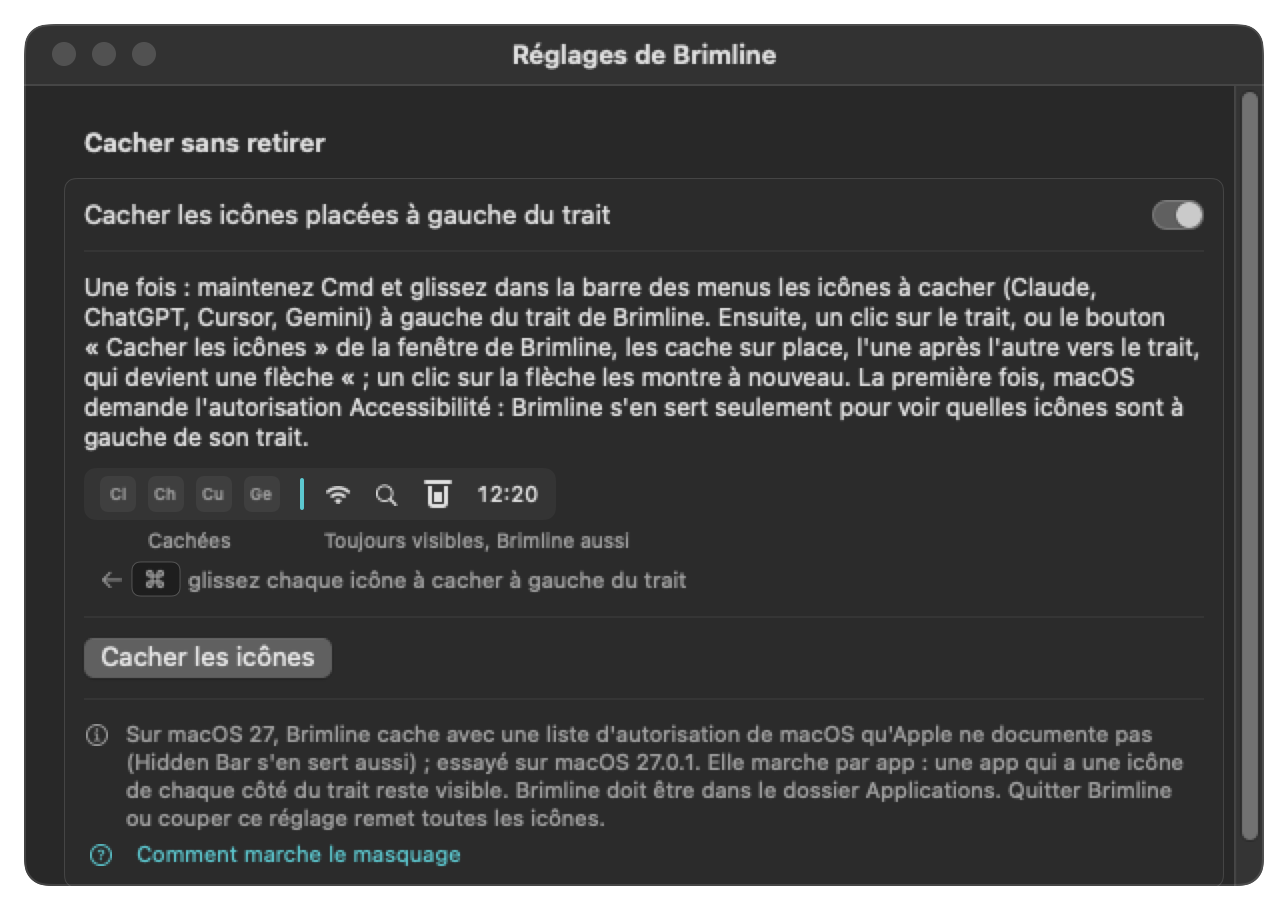
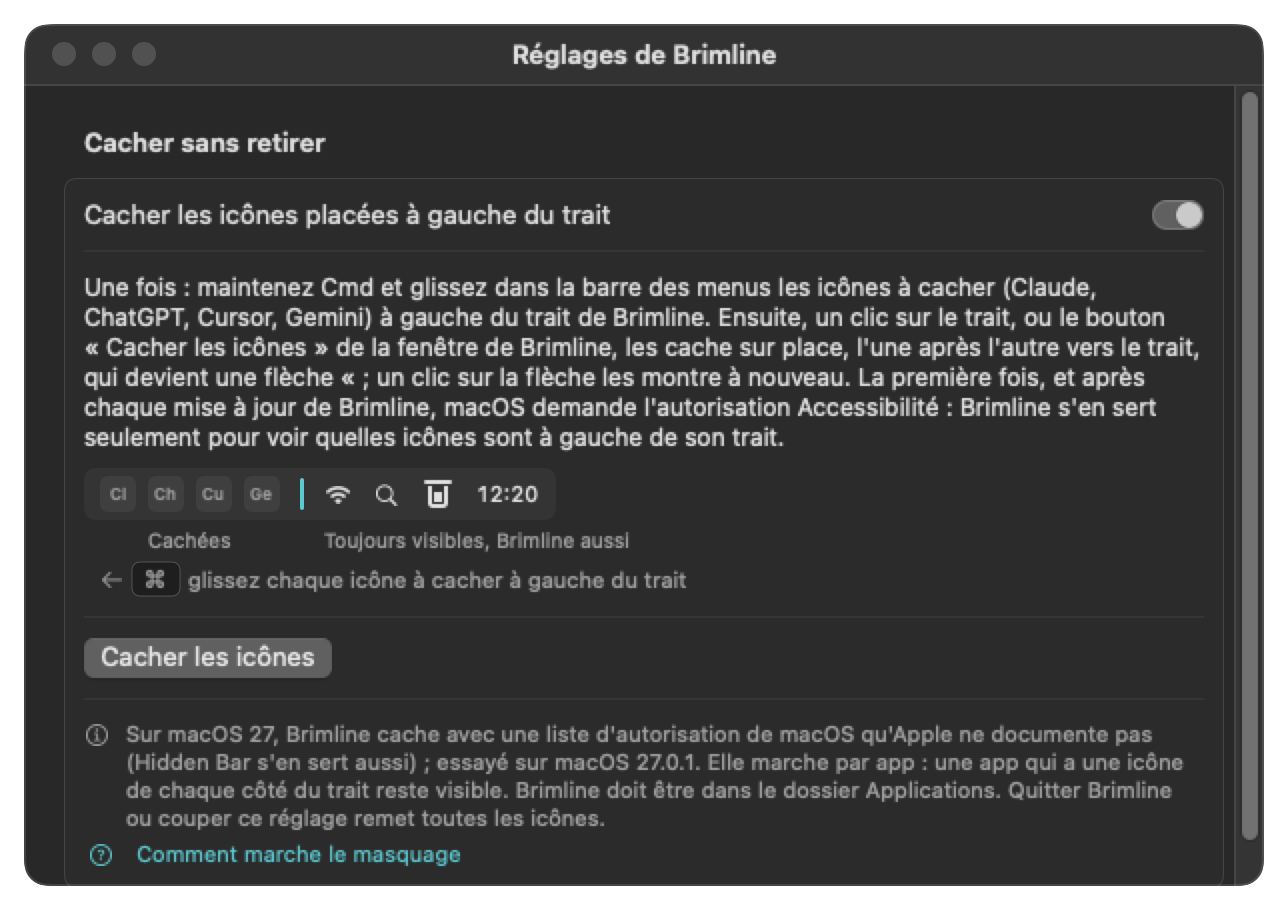
Brimline: ask for Accessibility again after an update, and say the grant covers one build (THA-1551)
The grant macOS keeps for Brimline names the cdhash of the build that was
approved (an ad hoc signature): the build of main after #41 was not
covered, and the bar hid every other app at once with the remembered list,
without asking. Brimline now opens macOS's window (once per launch)
whenever it is not trusted, list or not, and the texts say that macOS asks
again after each update.

Docs: the claim that a new build kept the permission is withdrawn (that
install had copied the same build), J10 says what was really installed and
that the fixes of #41 are still to be tried by real clicks.

Changed region(s): [[0.0621, 0.4, 0.9317, 0.4923]]

diff --git a/Sources/BrimlineCore/Formatting.swift b/Sources/BrimlineCore/Formatting.swift
@@ -555,8 +555,8 @@ public struct Strings: Sendable {
     }
     /// The same on macOS 27, where Brimline hides with macOS's allow-list.
     public var menuBarHidingHowToAllowList: String {
-        t("Once: hold Command and drag the icons to hide (Claude, ChatGPT, Cursor, Gemini) to the left of Brimline's bar in the menu bar. Then a click on the bar, or the “Hide the icons” button of the Brimline window, hides them in place, one after the other toward the bar, which becomes an arrow «; a click on the arrow shows them again. The first time, macOS asks for the Accessibility permission: Brimline uses it only to see which icons are left of its bar.",
-          "Une fois : maintenez Cmd et glissez dans la barre des menus les icônes à cacher (Claude, ChatGPT, Cursor, Gemini) à gauche du trait de Brimline. Ensuite, un clic sur le trait, ou le bouton « Cacher les icônes » de la fenêtre de Brimline, les cache sur place, l'une après l'autre vers le trait, qui devient une flèche « ; un clic sur la flèche les montre à nouveau. La première fois, macOS demande l'autorisation Accessibilité : Brimline s'en sert seulement pour voir quelles icônes sont à gauche de son trait.")
+        t("Once: hold Command and drag the icons to hide (Claude, ChatGPT, Cursor, Gemini) to the left of Brimline's bar in the menu bar. Then a click on the bar, or the “Hide the icons” button of the Brimline window, hides them in place, one after the other toward the bar, which becomes an arrow «; a click on the arrow shows them again. The first time, and after each update of Brimline, macOS asks for the Accessibility permission: Brimline uses it only to see which icons are left of its bar.",
+          "Une fois : maintenez Cmd et glissez dans la barre des menus les icônes à cacher (Claude, ChatGPT, Cursor, Gemini) à gauche du trait de Brimline. Ensuite, un clic sur le trait, ou le bouton « Cacher les icônes » de la fenêtre de Brimline, les cache sur place, l'une après l'autre vers le trait, qui devient une flèche « ; un clic sur la flèche les montre à nouveau. La première fois, et après chaque mise à jour de Brimline, macOS demande l'autorisation Accessibilité : Brimline s'en sert seulement pour voir quelles icônes sont à gauche de son trait.")
     }
     public var menuBarHidingHide: String { t("Hide the icons", "Cacher les icônes") }
     public var menuBarHidingShow: String { t("Show the hidden icons", "Montrer les icônes cachées") }

diff --git a/Sources/BrimlineCore/MenuBarHiding.swift b/Sources/BrimlineCore/MenuBarHiding.swift
@@ -163,8 +163,8 @@ public enum MenuBarHiding {
 public struct MenuBarHidingSettings: Codable, Sendable, Equatable {
     public var enabled: Bool = false
     /// macOS 27: the apps found right of the bar the last time Brimline could read the menu bar (bundle identifiers).
-    /// Brimline is signed ad hoc, and macOS may tie the Accessibility permission to each build (a possibility, not
-    /// checked): when the permission is missing, or nothing could be read, the bar hides with this list.
+    /// Brimline is signed ad hoc, so macOS ties the Accessibility permission to one build (its grant names the cdhash):
+    /// after an update, until the permission is given again, or when nothing could be read, the bar hides with this list.
     public var shownApps: [String] = []
 
     public init(enabled: Bool = false, shownApps: [String] = []) {

diff --git a/Sources/BrimlineUI/MenuBarHider.swift b/Sources/BrimlineUI/MenuBarHider.swift
@@ -155,9 +155,10 @@ public final class MenuBarHider: NSObject, MenuBarSeparating {
 
     private func hideNatively(_ item: NSStatusItem) -> MenuBarHiding.Decision {
         let trusted = AXIsProcessTrusted()
+        // After an update, the permission given to the previous build no longer applies: macOS's window asks again.
+        if !trusted { askAccessibility() }
         if let refusal = MenuBarHiding.nativeRefusal(appPath: Bundle.main.bundlePath, accessibilityTrusted: trusted,
                                                      knowsShownApps: !knownShownApps.isEmpty) {
-            if refusal == .accessibilityNeeded { askAccessibility() }
             return .refuse(refusal)
         }
         guard let window = item.button?.window, let screen = window.screen ?? NSScreen.main, window.frame.width > 0 else {

diff --git a/docs/menu-bar.fr.md b/docs/menu-bar.fr.md
@@ -20,7 +20,7 @@ Brimline ne peut pas retirer lui-même l'icône d'une autre app : macOS laisse c
 
 1. **Le trait apparaît.** Brimline ajoute un élément à lui dans la barre des menus : un fin trait vertical. La première fois, il arrive à gauche des autres icônes (macOS y place tout nouvel élément).
 2. **Une fois, le geste.** Maintenez Cmd et glissez, dans la barre des menus, chaque icône à cacher (Claude, ChatGPT, Cursor, Gemini) à gauche du trait. macOS retient la place de chaque icône, celle du trait aussi, d'un lancement à l'autre.
-3. **Cacher et montrer.** Un clic sur le trait cache tout ce qui est à sa gauche, et le trait devient une flèche «, juste à côté des icônes qui restent ; un clic sur la flèche les fait revenir. Sous macOS 27 et après, la première fois, macOS demande l'autorisation Accessibilité (voir plus bas). Dans la fenêtre de Brimline, **« Cacher les icônes »** et **« Montrer les icônes cachées »** font la même chose ; le même bouton est dans les Réglages.
+3. **Cacher et montrer.** Un clic sur le trait cache tout ce qui est à sa gauche, et le trait devient une flèche «, juste à côté des icônes qui restent ; un clic sur la flèche les fait revenir. Sous macOS 27 et après, la première fois et après chaque mise à jour de Brimline, macOS demande l'autorisation Accessibilité (voir plus bas). Dans la fenêtre de Brimline, **« Cacher les icônes »** et **« Montrer les icônes cachées »** font la même chose ; le même bouton est dans les Réglages.
 
 <p align="center">
   <img src="images/settings-menuBar-hiding-fr-light.png" width="520" alt="Réglages, Barre des menus, Cacher sans retirer : l'interrupteur, le geste à faire une fois, le bouton Cacher les icônes et la note sur la technique">
@@ -34,9 +34,9 @@ Quand macOS a sa liste d'autorisation de la barre des menus, Brimline cache avec
 
 - **Ce que vous voyez.** Les icônes des apps à gauche du trait disparaissent sur place, une app après l'autre de la gauche vers le trait (70 ms entre deux), et le trait devient une flèche «. macOS n'ajoute plus son propre « après les menus. Un clic sur la flèche les fait revenir, de la plus proche à la plus lointaine. Le clic sur le trait, le bouton « Cacher les icônes » de la fenêtre et celui des Réglages font la même chose.
 - **Par app.** Une app qui a une icône de chaque côté du trait reste visible, toutes ses icônes avec. Les éléments du système (horloge, Wi-Fi, Centre de contrôle) restent toujours. Une app dont Brimline ne peut pas lire les icônes en 0,2 s n'est pas sur la liste : macOS la cache, où que soient ses icônes. Quand aucune icône ne peut être lue et qu'aucune liste n'est encore mémorisée, Brimline ne cache rien et le dit.
-- **L'autorisation Accessibilité.** Brimline s'en sert seulement pour lire où sont les icônes des autres apps (l'attribut `AXExtrasMenuBar` de chaque app ouverte) et savoir lesquelles sont à gauche du trait. macOS la demande la première fois, dans une fenêtre du système. Sans elle, et sans liste connue, Brimline refuse avec : « Pour savoir quelles icônes sont à gauche de son trait, Brimline a besoin de l'autorisation Accessibilité : activez Brimline dans Réglages Système, Confidentialité et sécurité, Accessibilité, puis cliquez à nouveau. »
+- **L'autorisation Accessibilité.** Brimline s'en sert seulement pour lire où sont les icônes des autres apps (l'attribut `AXExtrasMenuBar` de chaque app ouverte) et savoir lesquelles sont à gauche du trait. macOS la demande la première fois, dans une fenêtre du système, et de nouveau après chaque mise à jour (voir la liste mémorisée plus bas). Sans elle, et sans liste connue, Brimline refuse avec : « Pour savoir quelles icônes sont à gauche de son trait, Brimline a besoin de l'autorisation Accessibilité : activez Brimline dans Réglages Système, Confidentialité et sécurité, Accessibilité, puis cliquez à nouveau. »
 - **Brimline doit être dans `/Applications`.** Ailleurs, macOS cache aussi ses icônes. Le 28 octobre 2026, un programme d'essai a mis Brimline, alors dans `~/Applications`, sur la liste, et ses icônes ont quand même disparu, alors que les apps de `/Applications` sur la liste sont restées ; les notes de Hidden Bar 1.11.1 disent la même chose. Sinon Brimline refuse : « Brimline doit être dans le dossier Applications pour cacher des icônes : ailleurs, macOS cache aussi les siennes. Placez Brimline dans Applications, puis rouvrez-le. »
-- **La liste mémorisée.** Brimline garde les apps trouvées à droite du trait la dernière fois (`shownApps`, dans son `settings.json`). Il est signé ad hoc, et macOS peut lier l'autorisation à chaque build (une possibilité : le 29 octobre 2026, un nouveau build installé par-dessus le précédent l'a gardée) : sans l'autorisation, le trait cache avec cette liste, c'est-à-dire toutes les autres apps d'un coup.
+- **La liste mémorisée.** Brimline garde les apps trouvées à droite du trait la dernière fois (`shownApps`, dans son `settings.json`). Il est signé ad hoc, si bien que macOS lie l'autorisation à un build : l'accord qu'il garde nomme l'empreinte du code (cdhash) du build approuvé, et un nouveau build de Brimline (une mise à jour) n'est plus couvert. Vu le 29 octobre 2026 : le build approuvé à minuit était couvert, le build suivant ne l'était pas. Sans l'autorisation, le trait cache avec cette liste, c'est-à-dire toutes les autres apps d'un coup et sans vague, et Brimline redemande l'autorisation (la fenêtre de macOS, une fois par lancement). Il faut alors la redonner dans Réglages Système, Confidentialité et sécurité, Accessibilité.
 - **Ce qui a été essayé.** Le 28 octobre 2026, sur macOS 27.0.1 (écran de 1920 pt, sans encoche), avec un programme d'essai et non Brimline : les icônes se sont cachées sur place, macOS n'a dessiné aucun « de lui, et tout est revenu à la fin de la liste. Puis, le 29 octobre 2026, dans Brimline (dans `/Applications`, avec l'autorisation Accessibilité), par de vrais clics : le trait, le bouton « Hide the icons » de la fenêtre de Brimline et celui des Réglages ont chacun caché les apps à gauche du trait l'une après l'autre, de la plus lointaine vers le trait, pendant que le trait devenait « ; le clic suivant les a remontrées en partant de la plus proche, et le « est redevenu le trait. macOS n'a dessiné aucun « de lui. Non essayé : un MacBook à encoche, plusieurs écrans, la mise en veille et le verrouillage.
 
 #### Sous macOS 26 et avant, ou sans la liste : la longueur du trait

diff --git a/docs/parcours-critiques.md b/docs/parcours-critiques.md
@@ -90,7 +90,7 @@ The journeys to replay before each release to prove that Brimline (the macOS men
 - Result on 2026-10-28: not verifiable in this run. It needs the graphical session of the maintainer and real accounts, which a non-regression run must not use; the bundle was built (J5) and its views drawn on invented data (J7), nothing more. Reading real providers also stays manual (the 27 October 2026 trials listed in the README and in `docs/providers.md`).
 - Result on 2026-10-28, later, with the maintainer's agreement, on the maintainer's Mac (macOS 27.0.1, a 1920 pt screen, real accounts), build of version 0.2.2 installed by `scripts/install.sh`, by real mouse clicks: a click on Brimline's element opens the panel; "Hide the icons" in the panel, with Claude in front and the bar at 1512 pt, hides the icons left of the bar except the two closest to it, which move left (a « sign appears in place of the others), the line of the bar stays in place and the panel shows the note on the icons closest to the bar; "Show the hidden icons" brings every icon back; the same with Finder in front and with Settings in front. In Settings, Accounts, the "+" of "Other color…" opens the system color panel without changing the saved colors, and the panel closes with Settings. Proof: screenshots of the menu bar before and after each step, kept with the maintainer. Not covered: opening at login, the system log.
 - Result on 2026-10-28, at night, same Mac, build of the change "a click on the bar" (after 0.2.2) installed by `scripts/install.sh`, by real mouse clicks, with the bar at 1442 pt: a click on the bar hides every icon left of it and the bar becomes an arrow « beside the search icon (macOS also shows its own « right after the menus of Claude; earlier the same day, with version 0.2.2, a click on that « of macOS showed the hidden icons in place of the menus of the app in front); a click on the arrow shows them all again; a second cycle gives the same; with the Brimline window open, a click on the arrow closes it and shows the icons. Proof: screenshots of the menu bar, kept with the maintainer. Not covered: the "Hide the icons" button of the window in this build (the Mac was in use), opening at login.
-- Result on 2026-10-29, hiding with macOS 27's allow-list inside Brimline (macOS 27.0.1, a 1920 pt screen with no notch, Brimline in `/Applications` with the Accessibility permission, its bar placed by the maintainer left of Notion Calendar's item): OK by real clicks. A click on the bar hid the apps left of it one after the other, from the farthest to the bar (Flux first, Search last), while the bar turned into «; a click on the « showed them again from the nearest, and the « turned back into the bar. The "Hide the icons" button of the Brimline window and the one of Settings gave the same, both ways, and their label followed ("Show the hidden icons" / "Hide the icons"). Only one « in the menu bar: macOS drew none of its own. The Brimline window opened right under the menu bar (top at 32 pt), as high as its content (867 pt), with no band under "Quit". Two synthetic clicks sent while the menu bar was hidden were lost; the same action sent through Accessibility (AXPress) worked, then the real clicks with the menu bar shown. After the fixes of the review (a number for each wave, the way back starting from what is really hidden), installed again with `scripts/install.sh` while the icons were hidden: they all came back at once when the old copy was ended, before the new one started; the new build kept the Accessibility permission; the first hide after the launch took about 2 s before the icons went (the first read of the menu bar), the next ones started at once, and both waves went one app after the other. Not covered: a notch, several screens, sleep and lock, an app whose Accessibility read times out (it is then hidden, as it is not on the list).
+- Result on 2026-10-29, hiding with macOS 27's allow-list inside Brimline (macOS 27.0.1, a 1920 pt screen with no notch, Brimline in `/Applications` with the Accessibility permission, its bar placed by the maintainer left of Notion Calendar's item): OK by real clicks. A click on the bar hid the apps left of it one after the other, from the farthest to the bar (Flux first, Search last), while the bar turned into «; a click on the « showed them again from the nearest, and the « turned back into the bar. The "Hide the icons" button of the Brimline window and the one of Settings gave the same, both ways, and their label followed ("Show the hidden icons" / "Hide the icons"). Only one « in the menu bar: macOS drew none of its own. The Brimline window opened right under the menu bar (top at 32 pt), as high as its content (867 pt), with no band under "Quit". Two synthetic clicks sent while the menu bar was hidden were lost; the same action sent through Accessibility (AXPress) worked, then the real clicks with the menu bar shown. Then `scripts/install.sh` was run again from the branch while the icons were hidden: they all came back at once when the old copy was ended, before the new one started. That install copied the build already made in that folder, before the fixes of the review, so it was the same build (same cdhash) and it kept the permission; with it, the first hide after the launch took about 2 s before the icons went (the first read of the menu bar), the next ones started at once, and both waves went one app after the other. The build of `main` after the merge (ef276a2) has another cdhash: the grant macOS keeps (`cdhash H"…"` of the approved build, read in the system's permission database) did not cover it, so the bar hid every other app at once with the remembered list. The fixes of the review (a number for each wave, the way back from what is really hidden) are still to be tried by real clicks, once the permission is given again. Not covered: a notch, several screens, sleep and lock, an app whose Accessibility read times out (it is then hidden, as it is not on the list).
 
 ## Debt
 

diff --git a/docs/menu-bar.md b/docs/menu-bar.md
@@ -20,7 +20,7 @@ Brimline cannot remove another app's icon itself: macOS leaves that choice to ea
 
 1. **The bar appears.** Brimline adds one item of its own to the menu bar: a thin vertical bar. The first time, it lands left of the other icons (macOS puts a new item there).
 2. **Once, the gesture.** Hold Command and drag, in the menu bar, each icon to hide (Claude, ChatGPT, Cursor, Gemini) to the left of the bar. macOS remembers the place of every icon, the bar's too, from one launch to the next.
-3. **Hide and show.** A click on the bar hides everything left of it, and the bar becomes an arrow «, right beside the icons that stay; a click on the arrow brings them back. On macOS 27 and later, the first time, macOS asks for the Accessibility permission (see below). In the Brimline window, **"Hide the icons"** and **"Show the hidden icons"** do the same; the same button is in Settings.
+3. **Hide and show.** A click on the bar hides everything left of it, and the bar becomes an arrow «, right beside the icons that stay; a click on the arrow brings them back. On macOS 27 and later, the first time and after each update of Brimline, macOS asks for the Accessibility permission (see below). In the Brimline window, **"Hide the icons"** and **"Show the hidden icons"** do the same; the same button is in Settings.
 
 <p align="center">
   <img src="images/settings-menuBar-hiding-light.png" width="520" alt="Settings, Menu Bar, Hide without removing: the switch, the gesture to make once, the Hide the icons button and the note on the technique">
@@ -34,9 +34,9 @@ When macOS has its allow-list of the menu bar, Brimline hides with it instead of
 
 - **What you see.** The icons of the apps left of the bar disappear in place, one app after the other from the left toward the bar (70 ms between two), and the bar becomes an arrow «. macOS adds no « of its own after the menus. A click on the arrow brings them back, from the nearest to the farthest. A click on the bar, the "Hide the icons" button of the window and the one in Settings do the same.
 - **Per app.** An app that has an icon on each side of the bar stays shown, all its icons with it. The items of the system (clock, Wi-Fi, Control Center) always stay. An app whose icons Brimline cannot read within 0.2 s is not on the list, so macOS hides it, wherever its icons are. When no icon at all can be read and no list is remembered yet, Brimline hides nothing and says so.
-- **The Accessibility permission.** Brimline uses it only to read where the icons of the other apps are (the `AXExtrasMenuBar` attribute of each open app) and so which ones are left of the bar. macOS asks for it the first time, in a window of the system. Without it, and without a known list, Brimline refuses with: "To know which icons are left of its bar, Brimline needs the Accessibility permission: turn Brimline on in System Settings, Privacy & Security, Accessibility, then click again."
+- **The Accessibility permission.** Brimline uses it only to read where the icons of the other apps are (the `AXExtrasMenuBar` attribute of each open app) and so which ones are left of the bar. macOS asks for it the first time, in a window of the system, and again after each update (see the remembered list below). Without it, and without a known list, Brimline refuses with: "To know which icons are left of its bar, Brimline needs the Accessibility permission: turn Brimline on in System Settings, Privacy & Security, Accessibility, then click again."
 - **Brimline must be in `/Applications`.** Anywhere else, macOS hides its icons too. On 28 October 2026, a test program put Brimline, then in `~/Applications`, on the list, and its icons disappeared all the same, while the apps of `/Applications` on the list stayed; the notes of Hidden Bar 1.11.1 say the same. Otherwise Brimline refuses: "Brimline must be in the Applications folder to hide icons: anywhere else, macOS hides its icons too. Move Brimline to Applications, then open it again."
-- **The remembered list.** Brimline keeps the apps it found right of the bar the last time (`shownApps`, in its `settings.json`). It is signed ad hoc, and macOS may tie the permission to each build (a possibility: on 29 October 2026, one new build installed over the previous one kept it): without the permission, the bar hides with that list, which means all the other apps at once.
+- **The remembered list.** Brimline keeps the apps it found right of the bar the last time (`shownApps`, in its `settings.json`). It is signed ad hoc, so macOS ties the permission to one build: the grant it keeps names the code hash (cdhash) of the build you approved, and a new build of Brimline (an update) is no longer covered. Seen on 29 October 2026: the build approved at midnight was covered, the next build was not. Without the permission, the bar hides with that list, which means all the other apps at once and with no wave, and Brimline asks for the permission again (macOS's window, once per launch). The permission must then be given again in System Settings, Privacy & Security, Accessibility.
 - **What was tried.** On 28 October 2026, on macOS 27.0.1 (a 1920 pt screen, no notch), with a test program and not Brimline: the icons were hidden in place, macOS drew no « of its own, and everything came back at the end of the list. Then, on 29 October 2026, inside Brimline (in `/Applications`, with the Accessibility permission), by real clicks: the bar, the "Hide the icons" button of the Brimline window and the one of Settings each hid the apps left of the bar one after the other, from the farthest to the bar, while the bar turned into «; the next click showed them again from the nearest, and the « turned back into the bar. macOS drew no « of its own. Not tried: a MacBook with a notch, several screens, sleep and lock.
 
 #### On macOS 26 and before, or without the allow-list: the length of the bar

diff --git a/CHANGELOG.md b/CHANGELOG.md
@@ -9,7 +9,7 @@ The version lives in the `VERSION` file. `0.0.0` is the development version: not
 ### Changed
 
 - **On macOS 27 and later, Brimline hides with macOS's allow-list of the menu bar.** When macOS has it (private framework `MenuBarClientCore`, classes `MBAssessmentModeConfiguration` and `MBAssessmentModeAssertion`, the one of the exam mode; Hidden Bar 1.11.1 of 18 September 2026 uses it too), Brimline hides with it instead of making its bar long. The icons of the apps left of the bar disappear in place, one app after the other from the left toward the bar (70 ms between two), and the bar becomes an arrow «; macOS adds no « of its own after the menus. A click on the arrow brings them back, from the nearest to the farthest; the click on the bar and the "Hide the icons" buttons of the window and of Settings do the same. It works per app: an app with an icon on each side of the bar stays shown, all its icons with it, and the items of the system (clock, Wi-Fi, Control Center) always stay. Apple does not document it: Brimline looks for it at launch and, when it is gone, goes back to the length of its bar (which stays for macOS 26 and before).
-- **The Accessibility permission, for macOS 27.** Brimline uses it only to read where the icons of the other apps are (the `AXExtrasMenuBar` attribute of each open app), to know which are left of the bar; macOS asks for it the first time. Without it, and without a known list, Brimline refuses and says what to turn on. `settings.json` now keeps `"menuBarHiding": { "enabled": …, "shownApps": [identifiers] }`, the apps found right of the bar the last time: Brimline is signed ad hoc and macOS may tie the permission to each build (a possibility: on 29 October 2026, one new build installed over the previous one kept it), and without the permission the bar hides with that list, which means all the other apps at once.
+- **The Accessibility permission, for macOS 27.** Brimline uses it only to read where the icons of the other apps are (the `AXExtrasMenuBar` attribute of each open app), to know which are left of the bar; macOS asks for it the first time. Without it, and without a known list, Brimline refuses and says what to turn on. `settings.json` now keeps `"menuBarHiding": { "enabled": …, "shownApps": [identifiers] }`, the apps found right of the bar the last time: Brimline is signed ad hoc, so macOS ties the permission to one build (the grant names the cdhash of the build approved; on 29 October 2026 the next build was not covered): after an update, the bar hides with that list, which means all the other apps at once, and Brimline asks for the permission again (macOS's window, once per launch) until it is given again.
 - **Brimline must be in `/Applications` to hide.** Anywhere else, macOS hides its icons too (28 October 2026: a test program put Brimline, then in `~/Applications`, on the list and its icons disappeared, while the apps of `/Applications` on the list stayed). Otherwise Brimline refuses and says to move it.
 - **Quitting Brimline or turning the setting off shows every icon again:** the list ends with the process of Brimline. Tried on 29 October 2026: when `scripts/install.sh` ended Brimline while the icons were hidden (a plain `kill`, so Brimline cleaned nothing up), they all came back at once, before the new copy started.
 - **Tried on 28 October 2026, on macOS 27.0.1 (a 1920 pt screen, no notch), with a test program and not Brimline:** icons hidden in place, no « of macOS, everything back at the end. Then tried inside Brimline on 29 October 2026 (Brimline in `/Applications`, with the Accessibility permission): a click on the bar, the "Hide the icons" button of the window and the one of Settings each hid the apps left of the bar one after the other, from the farthest to the bar, while the bar turned into «; the next click showed them again from the nearest, and the « turned back into the bar. macOS drew no « of its own.

diff --git a/SECURITY.md b/SECURITY.md
@@ -103,7 +103,7 @@ Every provider but Claude is off until you turn it on, and an account marked "Do
 - `~/Library/Application Support/Brimline/claude-reports/`, only through `brimline report claude`: one report of numbers per address (see "Claude Code reports" above), folder `0700`, files `0600`.
 - `~/Library/LaunchAgents/eu.thanaelfontaine.brimline.plist`, only when you turn on "Open at login"; it opens the app and nothing else.
 - Nothing in the Keychain, nothing in the Claude Code folders.
-- Hiding menu bar icons: a private API, the Accessibility permission, and what they read. With "Hide without removing" on (Settings, Menu Bar, off by default), Brimline adds one more item of its own to the menu bar, a thin bar. On macOS 27 and later, when macOS has its allow-list of the menu bar (the private framework `MenuBarClientCore`, classes `MBAssessmentModeConfiguration` and `MBAssessmentModeAssertion`, which Apple does not document), Brimline hides with it: it uses that private API, and the Accessibility permission, which macOS asks for the first time. It reads with that permission only the positions of the icons of the other open apps in the menu bar (the `AXExtrasMenuBar` attribute), to know which are left of the bar; it reads no window, no text, no content of the other apps. It writes one thing: `shownApps`, the bundle identifiers of the apps found right of the bar the last time, in its own `settings.json`. It writes in no file of macOS or of another app; macOS itself keeps the place of the bar, as for every item you drag. Without the allow-list (macOS 26 and before, or a macOS that removed it), Brimline only changes the length of its own item: no permission, no private API. See [docs/menu-bar.md](docs/menu-bar.md) for what was tried and its limits.
+- Hiding menu bar icons: a private API, the Accessibility permission, and what they read. With "Hide without removing" on (Settings, Menu Bar, off by default), Brimline adds one more item of its own to the menu bar, a thin bar. On macOS 27 and later, when macOS has its allow-list of the menu bar (the private framework `MenuBarClientCore`, classes `MBAssessmentModeConfiguration` and `MBAssessmentModeAssertion`, which Apple does not document), Brimline hides with it: it uses that private API, and the Accessibility permission, which macOS asks for the first time; Brimline is signed ad hoc, so the grant covers one build (it names its cdhash), and macOS asks again after each update. It reads with that permission only the positions of the icons of the other open apps in the menu bar (the `AXExtrasMenuBar` attribute), to know which are left of the bar; it reads no window, no text, no content of the other apps. It writes one thing: `shownApps`, the bundle identifiers of the apps found right of the bar the last time, in its own `settings.json`. It writes in no file of macOS or of another app; macOS itself keeps the place of the bar, as for every item you drag. Without the allow-list (macOS 26 and before, or a macOS that removed it), Brimline only changes the length of its own item: no permission, no private API. See [docs/menu-bar.md](docs/menu-bar.md) for what was tried and its limits.
 - Once, at its first launch, it reads `settings.json` and `usage.json` from the old folder in `~/Library/Application Support` (the one named after the old app) and copies them to the Brimline folder: a real folder owned by you, files opened without following a link, regular, owned by you, 1 MiB at most, decoded into the same types as above and written again (so no token can come over), never over an existing file. The old folder is not changed.
 
 ### Claude Code reports (`brimline report claude`)
